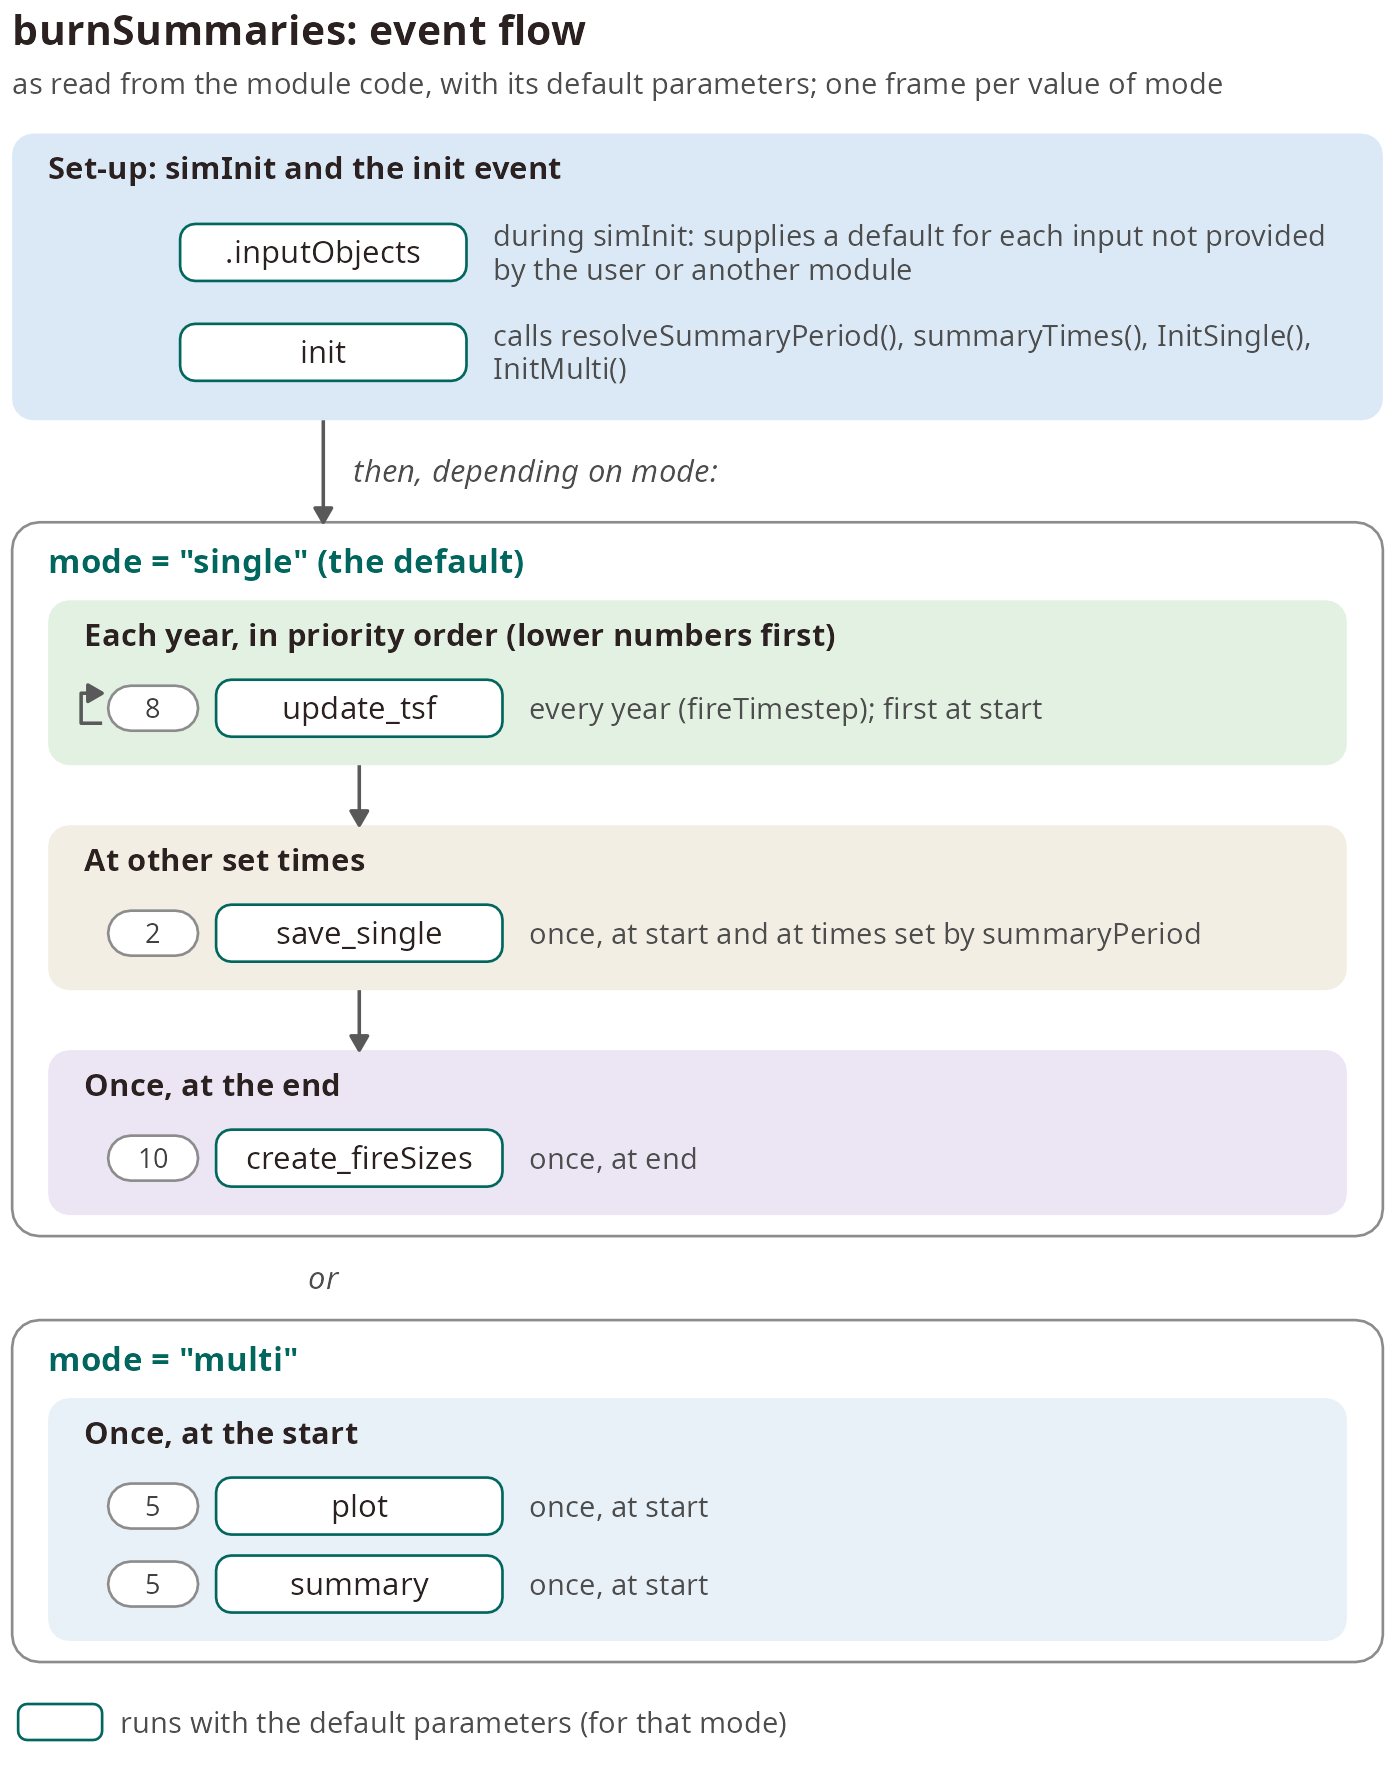
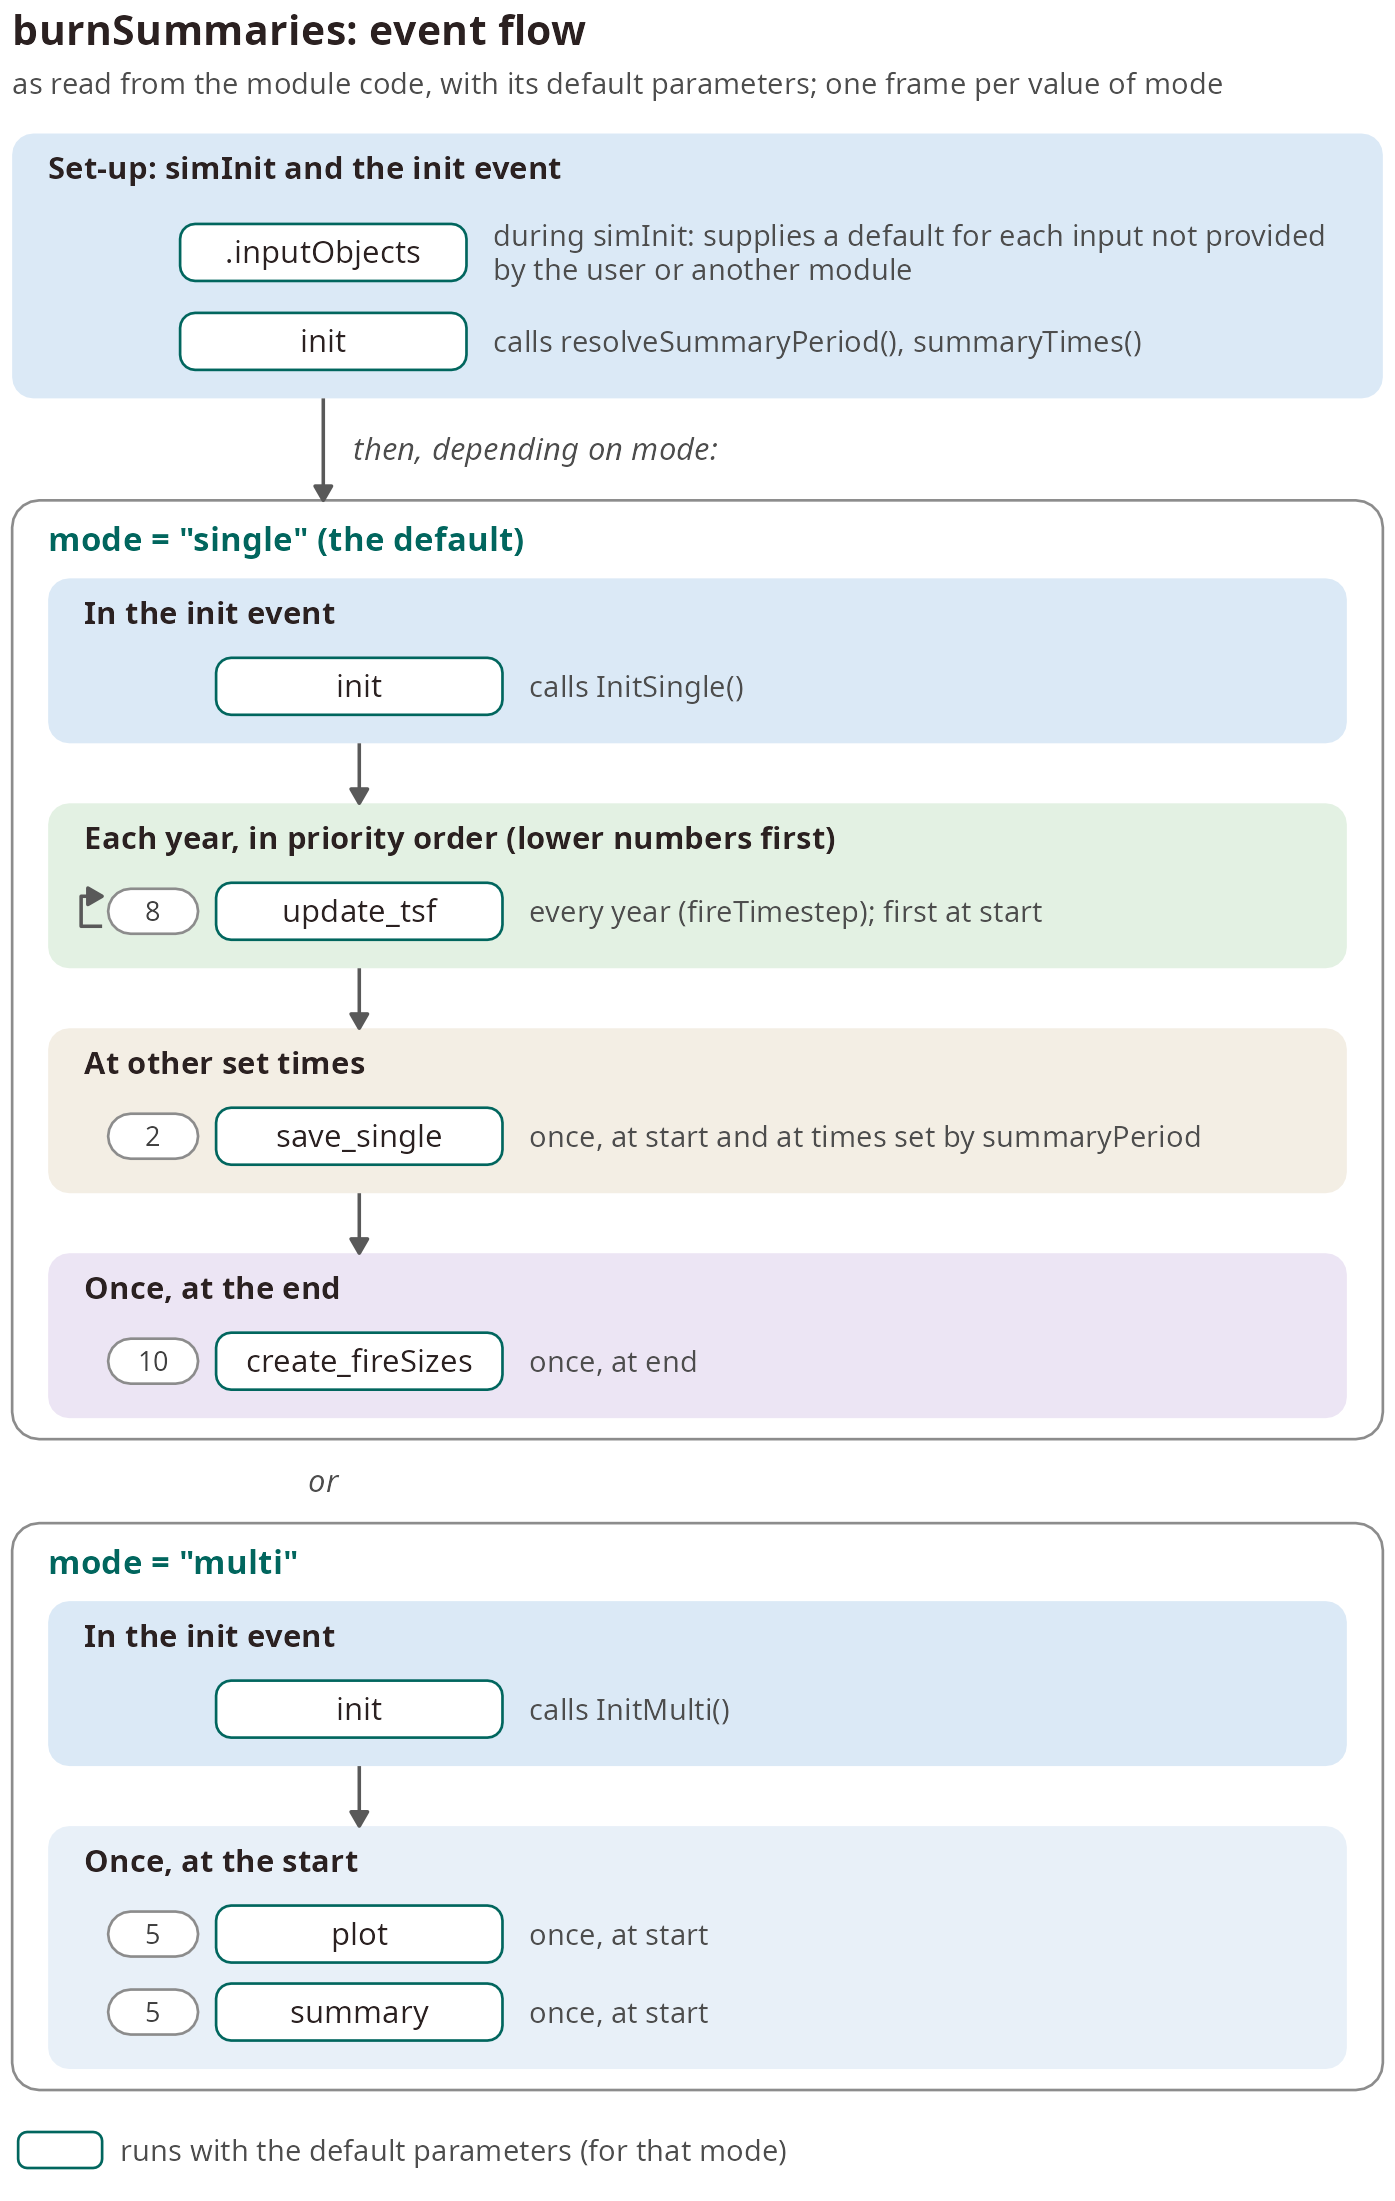
Re-build burnSummaries.Rmd

diff --git a/burnSummaries.md b/burnSummaries.md
@@ -1,7 +1,7 @@
 ---
 title: "burnSummaries Manual"
-subtitle: "v.1.1.0.9012"
-date: "Last updated: 2026-11-25"
+subtitle: "v.2.0.0"
+date: "Last updated: 2026-11-26"
 output:
   bookdown::html_document2:
     toc: true
@@ -32,7 +32,7 @@ always_allow_html: true
 
 
 
-[![module-version-Badge](figures/moduleVersionBadge.png)](https://github.com/PredictiveEcology/burnSummaries/commit/3f37a628f4530a8000d7dcea9c4af4a9d82e276d)
+[![module-version-Badge](figures/moduleVersionBadge.png)](https://github.com/PredictiveEcology/burnSummaries/commit/cf2cf6f2d7cdeadd8df475209365137925b18ad0)
 
 [![Issues-badge](figures/issuesBadge.png)](https://github.com/PredictiveEcology/burnSummaries/issues)
 
@@ -489,37 +489,37 @@ Table \@ref(tab:eventObjects-burnSummaries) lists, for each object, the code tha
 <tr>
    <td style="text-align:left;padding-left: 2em;" indentlevel="1"> flammableMap </td>
    <td style="text-align:left;">  </td>
-   <td style="text-align:left;"> init: InitSingle(), save_single (single) </td>
+   <td style="text-align:left;"> init: InitSingle() (single), save_single (single) </td>
   </tr>
   <tr>
    <td style="text-align:left;padding-left: 2em;" indentlevel="1"> nonForest_timeSinceDisturbance </td>
    <td style="text-align:left;">  </td>
-   <td style="text-align:left;"> init: InitSingle() </td>
+   <td style="text-align:left;"> init: InitSingle() (single) </td>
   </tr>
   <tr>
    <td style="text-align:left;padding-left: 2em;" indentlevel="1"> rstCurrentBurn </td>
    <td style="text-align:left;">  </td>
-   <td style="text-align:left;"> init: InitSingle(), update_tsf (single) </td>
+   <td style="text-align:left;"> init: InitSingle() (single), update_tsf (single) </td>
   </tr>
   <tr>
    <td style="text-align:left;padding-left: 2em;" indentlevel="1"> firePolys </td>
    <td style="text-align:left;">  </td>
-   <td style="text-align:left;"> init: InitMulti() </td>
+   <td style="text-align:left;"> init: InitMulti() (multi) </td>
   </tr>
   <tr>
    <td style="text-align:left;padding-left: 2em;" indentlevel="1"> fireReturnInterval </td>
    <td style="text-align:left;">  </td>
-   <td style="text-align:left;"> init: InitMulti() </td>
+   <td style="text-align:left;"> init: InitMulti() (multi) </td>
   </tr>
   <tr>
    <td style="text-align:left;padding-left: 2em;" indentlevel="1"> outputsDF </td>
    <td style="text-align:left;">  </td>
-   <td style="text-align:left;"> init: InitMulti() </td>
+   <td style="text-align:left;"> init: InitMulti() (multi) </td>
   </tr>
   <tr>
    <td style="text-align:left;padding-left: 2em;" indentlevel="1"> studyArea </td>
    <td style="text-align:left;">  </td>
-   <td style="text-align:left;"> init: InitMulti() </td>
+   <td style="text-align:left;"> init: InitMulti() (multi) </td>
   </tr>
   <tr>
    <td style="text-align:left;padding-left: 2em;" indentlevel="1"> burnMap </td>
@@ -534,7 +534,7 @@ Table \@ref(tab:eventObjects-burnSummaries) lists, for each object, the code tha
   <tr grouplength="2"><td colspan="3" style="border-bottom: 1px solid;"><strong>Inputs the module also updates</strong></td></tr>
 <tr>
    <td style="text-align:left;padding-left: 2em;" indentlevel="1"> rstTimeSinceFire </td>
-   <td style="text-align:left;"> .inputObjects (default), init: InitSingle(), update_tsf (single) </td>
+   <td style="text-align:left;"> .inputObjects (default), init: InitSingle() (single), update_tsf (single) </td>
    <td style="text-align:left;"> save_single (single) </td>
   </tr>
   <tr>
@@ -558,7 +558,7 @@ during simInit: defaults for inputs not supplied
 
 #### InitSingle() {-}
 
-init event, step 3 of 4
+mode = "single": init event, step 3 of 3
 
 ![](figures/burnSummaries_io_init_InitSingle.png){width=100%}
 
@@ -566,7 +566,7 @@ init event, step 3 of 4
 
 #### InitMulti() {-}
 
-init event, step 4 of 4
+mode = "multi": init event, step 3 of 3
 
 ![](figures/burnSummaries_io_init_InitMulti.png){width=100%}
 
